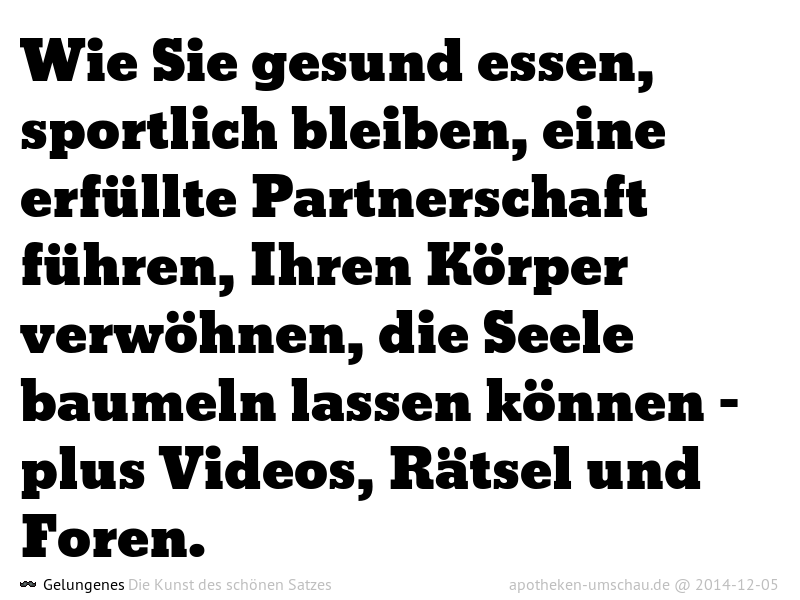
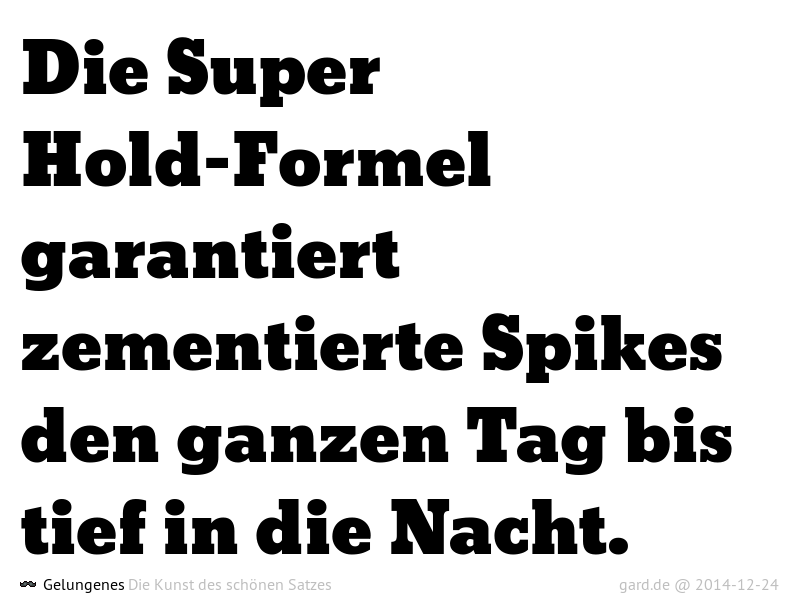
todays pick

diff --git a/content/posts/2021-10-25.md b/content/posts/2021-10-25.md
@@ -1,8 +1,7 @@
 ---
-date: '2021-10-25T07:53:38.293656+00:00'
-found_at: '2014-12-05'
-found_url: http://www.apotheken-umschau.de/Besser-Leben
-title: Wie Sie gesund essen, sportlich bleiben, eine erfüllte Partnerschaft führen,
-  Ihren Körper verwöhnen, die Seele baumeln lassen können – plus Videos, Rätsel und
-  Foren.
+date: '2021-10-25T10:09:03.683491+00:00'
+found_at: '2014-12-24'
+found_url: http://www.gard.de/gele/articles/massive-spikes-gel-igel-look
+title: Die Super Hold–Formel garantiert zementierte Spikes den ganzen Tag bis tief
+  in die Nacht.
 ---
